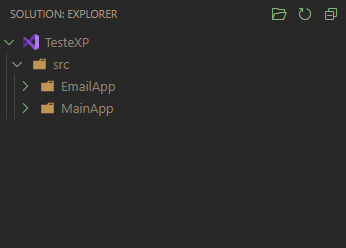
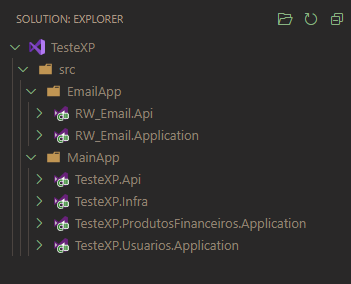
ajustes e detalhes

diff --git a/README.md b/README.md
@@ -21,22 +21,34 @@ Repositorio Destinado a implementação do teste para XP
 
  ![alt text](images/image_0.png)
 
- * Quando todos os componentes estiverem com status "Up", a aplicação pode estará pronta para testes.
+ * Quando todos os componentes estiverem com status "Up", a aplicação estará pronta para testes.
 
  <hr />
 
  #### Estrutura da aplicação
   
   * A solução do projeto segue a seguinte estrutura: <br />
+
   ![alt text](images/image_1.png)
 
   <br />
 
   * A pasta de solução "EmailApp" guarda todo o codigo para execução da aplicação para envio de emails.
-   
-  <br />
 
-  * A pasta de soluçao "MainApp" é guarda o código voltado ao escopo de usuários, produtos financeiros, compra, venda e consulta de extrato.
+  * A pasta de soluçao "MainApp" guarda o código voltado ao escopo de usuários, produtos financeiros, compra, venda e consulta de extrato.
+  
+  * Os projetos .Application, possuem toda a logica core de seu escopo:
+    <br /> RW_Email.Application - Responsável pelo core para disparo de emails
+    <br /> TesteXP.Usuarios.Application - Responsável pelo core de gerenciamento de usuarios e integração com o keycloak
+    <br /> TesteXP.ProdutosFinanceiros.Application - Responsável pelo core de produtos financeiros e suas operações
+
+  * Os projetos .Api, possuem toda a logica de exposição das aplicações via padrão REST:
+    <br /> RW_Email.Api - Api REST para disparo de emails
+    <br /> TesteXP.Api - Api REST para produtos financeiros e suas operações
+
+  * O projeto TesteXP.Infra é responsável por definir arquivos e libs a nivel de infraestrutura que são comum entre os projetos:
+    <br />TesteXP.Usuarios.Application
+    <br />TesteXP.ProdutosFinanceiros.Application
 
 <hr />
 
